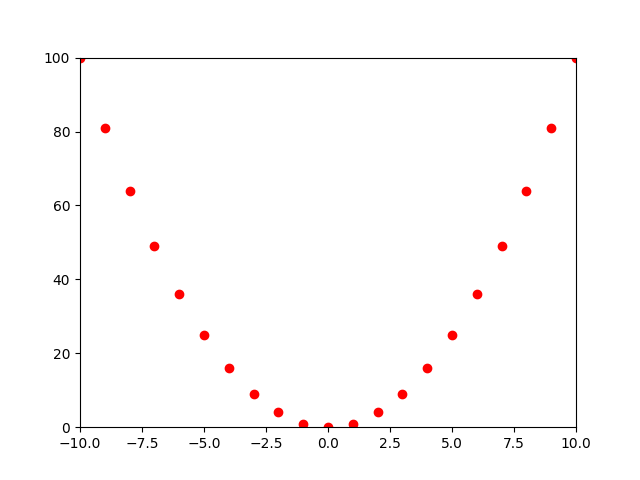
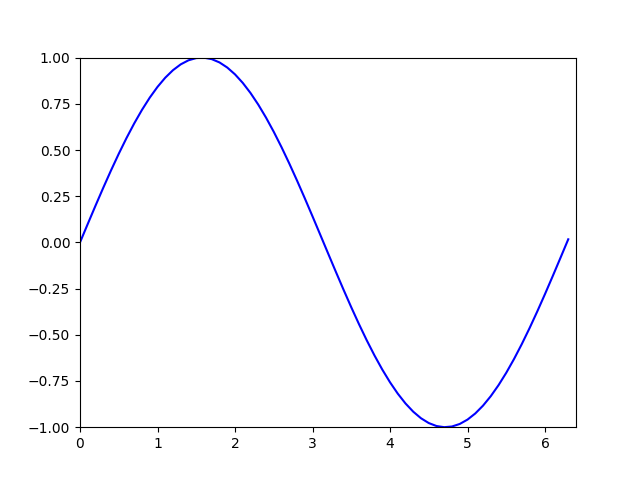
graphed the sine function

diff --git a/script.py b/script.py
@@ -1,11 +1,17 @@
 import matplotlib
 import matplotlib.pyplot as plt
+import math
 
 # Cofigure matplotlib to write PNG files
 matplotlib.use('Agg')
 
 # Get some x-values
-xAxis = list(range(-20,20))
+xAxis = list(range(0,64))
+
+xTenth = []
+for x in xAxis:
+  xTenth.append(x*0.1)
+xAxis = xTenth
 
 # Write a function to build our y-values
 def parabola(xValues):
@@ -14,7 +20,8 @@ def parabola(xValues):
   # get each number in the given list of x-values
   for x in xValues:
     # compute the square of each value
-    y = x*x
+    #y = x*x
+    y = math.sin(x)
     # add the squared value to the list of results
     yValues.append(y)
   # give the resultant list of squared valuse to the caller of this function 
@@ -25,17 +32,17 @@ yAxis = parabola(xAxis)
 
 # We don't have to use all the data we create. We 
 # can "slice" out protions that we want.
-sliceXAxis  = xAxis[5:35]
-sliceYAxis  = yAxis[5:35]
+sliceXAxis  = xAxis[:]
+sliceYAxis  = yAxis[:]
 
 # Plot data points as a red circle.
-style = 'ro'
+style = 'b-'
 
 # Give matplotlib our data
 plt.plot(sliceXAxis , sliceYAxis , style)
 
 # Specify the region of the plot we wish to display
-plt.axis([-10, 10, 0, 100])
+plt.axis([0, 6.4, -1, 1])
 
 # Save our plot to the local disk drive
 filename = 'graph.png'
